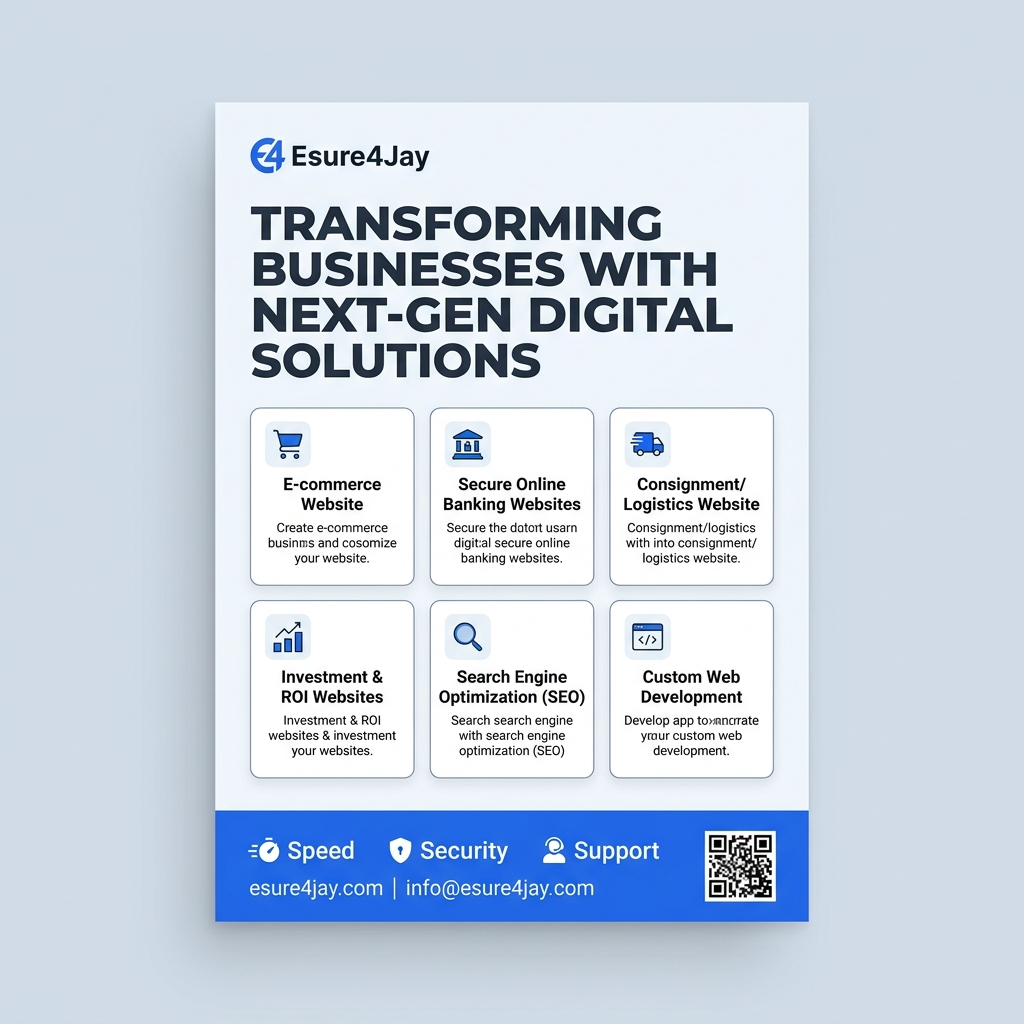
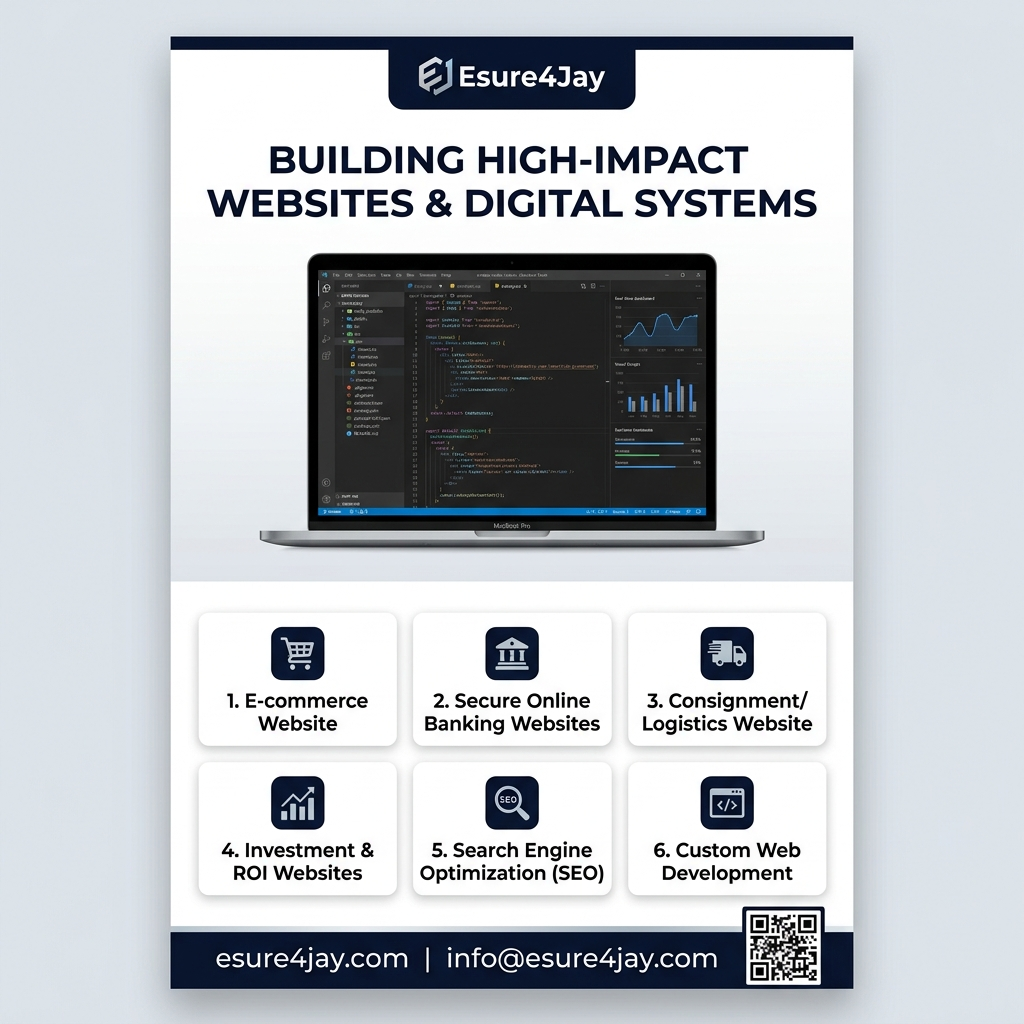
Build Hero Graphic Style marketing flyer with laptop mockup

diff --git a/public/flyer.html b/public/flyer.html
@@ -3,26 +3,26 @@
 <head>
     <meta charset="UTF-8">
     <meta name="viewport" content="width=device-width, initial-scale=1.0">
-    <title>Esure4Jay - Professional Corporate Marketing Flyer</title>
+    <title>Esure4Jay - Official Marketing Flyer</title>
     <script src="https://cdn.tailwindcss.com"></script>
     <script src="https://unpkg.com/lucide@latest"></script>
     <link rel="preconnect" href="https://fonts.googleapis.com">
     <link rel="preconnect" href="https://fonts.gstatic.com" crossorigin>
-    <link href="https://fonts.googleapis.com/css2?family=Inter:wght@300;400;500;600;700;800&family=Plus+Jakarta+Sans:wght@500;600;700;800&display=swap" rel="stylesheet">
+    <link href="https://fonts.googleapis.com/css2?family=Inter:wght@300;400;500;600;700;800&family=Plus+Jakarta+Sans:wght@600;700;800&display=swap" rel="stylesheet">
     <style>
         body {
             font-family: 'Inter', sans-serif;
-            background-color: #F1F5F9;
-            color: #0F172A;
+            background-color: #0F172A;
+            color: #F8FAFC;
         }
         .font-heading {
             font-family: 'Plus Jakarta Sans', sans-serif;
         }
         .flyer-container {
-            width: 850px;
-            min-height: 1200px;
-            background-color: #FFFFFF;
-            box-shadow: 0 20px 40px -15px rgba(15, 23, 42, 0.08);
+            width: 880px;
+            min-height: 1240px;
+            background: linear-gradient(180deg, #0F172A 0%, #090D16 100%);
+            box-shadow: 0 25px 50px -12px rgba(0, 0, 0, 0.7);
         }
         @media print {
             body { background: none; padding: 0; }
@@ -31,157 +31,170 @@
         }
     </style>
 </head>
-<body class="min-h-screen flex flex-col items-center py-10 px-4">
+<body class="min-h-screen flex flex-col items-center py-8 px-4">
 
     <!-- Action Bar -->
     <div class="no-print mb-6 flex gap-4">
-        <button onclick="window.print()" class="px-6 py-2.5 bg-blue-600 hover:bg-blue-700 text-white font-semibold rounded-lg shadow transition flex items-center gap-2">
+        <button onclick="window.print()" class="px-6 py-2.5 bg-blue-600 hover:bg-blue-500 text-white font-semibold rounded-lg shadow-lg transition flex items-center gap-2">
             <i data-lucide="printer" class="w-4 h-4"></i> Print / Save as PDF
         </button>
-        <a href="/" class="px-6 py-2.5 bg-slate-200 hover:bg-slate-300 text-slate-800 font-semibold rounded-lg transition flex items-center gap-2">
+        <a href="/" class="px-6 py-2.5 bg-slate-800 hover:bg-slate-700 text-slate-200 font-semibold rounded-lg transition flex items-center gap-2">
             <i data-lucide="arrow-left" class="w-4 h-4"></i> Back to Website
         </a>
     </div>
 
-    <!-- Printable Corporate Light Flyer -->
-    <div class="flyer-container rounded-2xl border border-slate-200 overflow-hidden p-10 flex flex-col justify-between relative">
+    <!-- Printable Hero Graphic Flyer -->
+    <div class="flyer-container rounded-2xl border border-slate-800 overflow-hidden p-8 flex flex-col justify-between relative">
         
-        <!-- Subtle Top Decorative Accent Line -->
-        <div class="absolute top-0 left-0 right-0 h-2 bg-gradient-to-r from-cyan-500 via-blue-600 to-indigo-600"></div>
-
+        <!-- Header Section -->
         <div>
-            <!-- Header Section -->
-            <div class="flex items-center justify-between border-b border-slate-100 pb-6 mb-8 mt-2">
-                <div class="flex items-center gap-4">
-                    <img src="/images/logo/logo-primary.svg" alt="Esure4Jay Logo" class="h-12 w-auto">
-                </div>
-                <div class="px-3.5 py-1 rounded-full bg-blue-50 border border-blue-100 text-blue-700 text-xs font-semibold uppercase tracking-wider">
-                    Corporate Digital Agency
+            <div class="flex items-center justify-between border-b border-slate-800/80 pb-5 mb-6">
+                <img src="/images/logo/logo-primary.svg" alt="Esure4Jay Logo" class="h-12 w-auto">
+                <div class="px-4 py-1.5 rounded-full bg-blue-500/10 border border-blue-500/30 text-cyan-400 text-xs font-semibold uppercase tracking-wider">
+                    Digital Agency & Web Solutions
                 </div>
             </div>
 
-            <!-- Hero Section -->
-            <div class="text-center max-w-2xl mx-auto mb-10">
-                <h1 class="text-4xl font-heading font-extrabold text-slate-900 tracking-tight leading-tight mb-3">
-                    Transforming Businesses With <br>
-                    <span class="text-blue-600">Next-Gen Digital Solutions</span>
-                </h1>
-                <p class="text-slate-600 text-sm leading-relaxed max-w-xl mx-auto">
-                    We engineer high-performance, secure, and conversion-driven web platforms tailored to accelerate your organization's growth.
-                </p>
+            <!-- Hero Banner with Tech Mockup Graphic -->
+            <div class="bg-gradient-to-br from-slate-900 via-slate-900 to-blue-950/40 border border-slate-800 rounded-2xl p-6 mb-8 flex items-center gap-6 shadow-xl relative overflow-hidden">
+                <!-- Background Accent Glow -->
+                <div class="absolute top-0 right-0 w-64 h-64 bg-cyan-500/10 blur-3xl rounded-full pointer-events-none"></div>
+
+                <div class="flex-1 z-10">
+                    <span class="inline-block px-3 py-1 bg-cyan-500/10 text-cyan-400 text-[11px] font-bold uppercase tracking-widest rounded-md mb-3 border border-cyan-500/20">
+                        Custom Web Development
+                    </span>
+                    <h1 class="text-3xl font-heading font-extrabold text-white leading-tight mb-3">
+                        Building High-Impact Websites & <span class="text-transparent bg-clip-text bg-gradient-to-r from-cyan-400 to-blue-500">Digital Systems</span>
+                    </h1>
+                    <p class="text-slate-300 text-xs leading-relaxed mb-4">
+                        We design and engineer fast, secure, and scalable web applications crafted to grow your brand and maximize revenue.
+                    </p>
+                    <div class="flex items-center gap-3 text-xs font-medium text-slate-300">
+                        <span class="flex items-center gap-1.5 text-cyan-400"><i data-lucide="check-circle-2" class="w-4 h-4"></i> Modern Stack</span>
+                        <span class="flex items-center gap-1.5 text-cyan-400"><i data-lucide="check-circle-2" class="w-4 h-4"></i> High Conversion</span>
+                    </div>
+                </div>
+
+                <!-- Laptop Mockup Graphic Image -->
+                <div class="w-72 shrink-0 z-10">
+                    <div class="relative group">
+                        <div class="absolute -inset-1 bg-gradient-to-r from-cyan-500 to-blue-600 rounded-xl blur opacity-30"></div>
+                        <img src="/images/tech-mockup.png" alt="Esure4Jay Laptop Mockup" class="relative rounded-xl border border-slate-700/80 shadow-2xl object-cover w-full h-44">
+                    </div>
+                </div>
             </div>
 
             <!-- Services Section Header -->
-            <div class="flex items-center gap-3 mb-6">
-                <div class="h-4 w-1 bg-blue-600 rounded-full"></div>
-                <h2 class="text-xs font-bold uppercase tracking-widest text-slate-400">Our Professional Services</h2>
-                <div class="h-px bg-slate-100 flex-1"></div>
+            <div class="flex items-center gap-3 mb-5">
+                <div class="h-4 w-1 bg-cyan-400 rounded-full"></div>
+                <h2 class="text-xs font-bold uppercase tracking-widest text-slate-400">Our Services</h2>
+                <div class="h-px bg-slate-800 flex-1"></div>
             </div>
 
-            <!-- Services Grid (6 Core Services) -->
-            <div class="grid grid-cols-2 gap-5 mb-8">
+            <!-- 6 Core Services Grid -->
+            <div class="grid grid-cols-2 gap-4 mb-6">
                 
                 <!-- Service 1 -->
-                <div class="bg-slate-50/50 border border-slate-200/80 p-5 rounded-xl hover:border-blue-300 transition shadow-sm flex gap-4">
-                    <div class="w-11 h-11 rounded-lg bg-blue-100/80 text-blue-600 flex items-center justify-center shrink-0">
-                        <i data-lucide="shopping-bag" class="w-5 h-5"></i>
+                <div class="bg-slate-900/90 border border-slate-800/90 p-4 rounded-xl flex gap-3.5 hover:border-cyan-500/40 transition">
+                    <div class="w-10 h-10 rounded-lg bg-cyan-500/10 border border-cyan-500/20 text-cyan-400 flex items-center justify-center shrink-0">
+                        <i data-lucide="shopping-cart" class="w-5 h-5"></i>
                     </div>
                     <div>
-                        <h3 class="font-heading font-bold text-slate-900 text-base mb-1">E-commerce Website</h3>
-                        <p class="text-slate-600 text-xs leading-relaxed">High-converting online stores, seamless checkouts, inventory tracking & payment gateways.</p>
+                        <h3 class="font-heading font-bold text-white text-sm mb-1">E-commerce Website</h3>
+                        <p class="text-slate-400 text-xs leading-relaxed">High-converting online stores, seamless checkouts & secure payment integrations.</p>
                     </div>
                 </div>
 
                 <!-- Service 2 -->
-                <div class="bg-slate-50/50 border border-slate-200/80 p-5 rounded-xl hover:border-blue-300 transition shadow-sm flex gap-4">
-                    <div class="w-11 h-11 rounded-lg bg-cyan-100/80 text-cyan-600 flex items-center justify-center shrink-0">
+                <div class="bg-slate-900/90 border border-slate-800/90 p-4 rounded-xl flex gap-3.5 hover:border-blue-500/40 transition">
+                    <div class="w-10 h-10 rounded-lg bg-blue-500/10 border border-blue-500/20 text-blue-400 flex items-center justify-center shrink-0">
                         <i data-lucide="shield-check" class="w-5 h-5"></i>
                     </div>
                     <div>
-                        <h3 class="font-heading font-bold text-slate-900 text-base mb-1">Secure Online Banking Websites</h3>
-                        <p class="text-slate-600 text-xs leading-relaxed">Encrypted financial portals with multi-layer security, user accounts & live transactions.</p>
+                        <h3 class="font-heading font-bold text-white text-sm mb-1">Secure Online Banking Websites</h3>
+                        <p class="text-slate-400 text-xs leading-relaxed">Encrypted banking portals with multi-layer security, user accounts & live logs.</p>
                     </div>
                 </div>
 
                 <!-- Service 3 -->
-                <div class="bg-slate-50/50 border border-slate-200/80 p-5 rounded-xl hover:border-blue-300 transition shadow-sm flex gap-4">
-                    <div class="w-11 h-11 rounded-lg bg-indigo-100/80 text-indigo-600 flex items-center justify-center shrink-0">
+                <div class="bg-slate-900/90 border border-slate-800/90 p-4 rounded-xl flex gap-3.5 hover:border-indigo-500/40 transition">
+                    <div class="w-10 h-10 rounded-lg bg-indigo-500/10 border border-indigo-500/20 text-indigo-400 flex items-center justify-center shrink-0">
                         <i data-lucide="truck" class="w-5 h-5"></i>
                     </div>
                     <div>
-                        <h3 class="font-heading font-bold text-slate-900 text-base mb-1">Consignment/Logistics Website</h3>
-                        <p class="text-slate-600 text-xs leading-relaxed">Real-time package consignment tracking, fleet management, and automated status updates.</p>
+                        <h3 class="font-heading font-bold text-white text-sm mb-1">Consignment/Logistics Website</h3>
+                        <p class="text-slate-400 text-xs leading-relaxed">Real-time consignment tracking, shipment management & fleet logs.</p>
                     </div>
                 </div>
 
                 <!-- Service 4 -->
-                <div class="bg-slate-50/50 border border-slate-200/80 p-5 rounded-xl hover:border-blue-300 transition shadow-sm flex gap-4">
-                    <div class="w-11 h-11 rounded-lg bg-sky-100/80 text-sky-600 flex items-center justify-center shrink-0">
+                <div class="bg-slate-900/90 border border-slate-800/90 p-4 rounded-xl flex gap-3.5 hover:border-sky-500/40 transition">
+                    <div class="w-10 h-10 rounded-lg bg-sky-500/10 border border-sky-500/20 text-sky-400 flex items-center justify-center shrink-0">
                         <i data-lucide="trending-up" class="w-5 h-5"></i>
                     </div>
                     <div>
-                        <h3 class="font-heading font-bold text-slate-900 text-base mb-1">Investment & ROI Websites</h3>
-                        <p class="text-slate-600 text-xs leading-relaxed">Modern portfolio management dashboards, interactive financial metrics & investor portals.</p>
+                        <h3 class="font-heading font-bold text-white text-sm mb-1">Investment & ROI Websites</h3>
+                        <p class="text-slate-400 text-xs leading-relaxed">Portfolio management dashboards, interactive financial metrics & investor portals.</p>
                     </div>
                 </div>
 
                 <!-- Service 5 -->
-                <div class="bg-slate-50/50 border border-slate-200/80 p-5 rounded-xl hover:border-blue-300 transition shadow-sm flex gap-4">
-                    <div class="w-11 h-11 rounded-lg bg-emerald-100/80 text-emerald-600 flex items-center justify-center shrink-0">
-                        <i data-lucide="search-check" class="w-5 h-5"></i>
+                <div class="bg-slate-900/90 border border-slate-800/90 p-4 rounded-xl flex gap-3.5 hover:border-emerald-500/40 transition">
+                    <div class="w-10 h-10 rounded-lg bg-emerald-500/10 border border-emerald-500/20 text-emerald-400 flex items-center justify-center shrink-0">
+                        <i data-lucide="search" class="w-5 h-5"></i>
                     </div>
                     <div>
-                        <h3 class="font-heading font-bold text-slate-900 text-base mb-1">Search Engine Optimization (SEO)</h3>
-                        <p class="text-slate-600 text-xs leading-relaxed">Data-backed search optimization to rank #1 on search engines and attract organic leads.</p>
+                        <h3 class="font-heading font-bold text-white text-sm mb-1">Search Engine Optimization (SEO)</h3>
+                        <p class="text-slate-400 text-xs leading-relaxed">Data-backed search optimization to rank #1 on Google and boost organic leads.</p>
                     </div>
                 </div>
 
                 <!-- Service 6 -->
-                <div class="bg-slate-50/50 border border-slate-200/80 p-5 rounded-xl hover:border-blue-300 transition shadow-sm flex gap-4">
-                    <div class="w-11 h-11 rounded-lg bg-purple-100/80 text-purple-600 flex items-center justify-center shrink-0">
-                        <i data-lucide="code-2" class="w-5 h-5"></i>
+                <div class="bg-slate-900/90 border border-slate-800/90 p-4 rounded-xl flex gap-3.5 hover:border-purple-500/40 transition">
+                    <div class="w-10 h-10 rounded-lg bg-purple-500/10 border border-purple-500/20 text-purple-400 flex items-center justify-center shrink-0">
+                        <i data-lucide="code" class="w-5 h-5"></i>
                     </div>
                     <div>
-                        <h3 class="font-heading font-bold text-slate-900 text-base mb-1">Custom Web Development</h3>
-                        <p class="text-slate-600 text-xs leading-relaxed">Bespoke web applications built from scratch with modern frameworks for maximum speed.</p>
+                        <h3 class="font-heading font-bold text-white text-sm mb-1">Custom Web Development</h3>
+                        <p class="text-slate-400 text-xs leading-relaxed">Tailor-made web applications built from scratch with modern frameworks.</p>
                     </div>
                 </div>
 
             </div>
 
-            <!-- Value Highlights Banner -->
-            <div class="bg-blue-600 text-white rounded-xl p-5 mb-8 grid grid-cols-3 gap-4 text-center">
-                <div class="flex flex-col items-center">
-                    <i data-lucide="zap" class="w-5 h-5 mb-1 text-cyan-300"></i>
-                    <span class="font-bold text-sm">Ultra Fast Performance</span>
-                    <span class="text-[11px] text-blue-100 mt-0.5">Optimized for Speed</span>
+            <!-- Value Highlights Bar -->
+            <div class="bg-slate-900/80 border border-slate-800 rounded-xl p-4 mb-6 flex justify-around text-center">
+                <div class="flex items-center gap-2 text-xs">
+                    <i data-lucide="zap" class="w-4 h-4 text-cyan-400"></i>
+                    <span class="font-bold text-white">Ultra Fast Speed</span>
                 </div>
-                <div class="flex flex-col items-center border-x border-blue-500/60 px-2">
-                    <i data-lucide="lock" class="w-5 h-5 mb-1 text-cyan-300"></i>
-                    <span class="font-bold text-sm">Bank-Grade Security</span>
-                    <span class="text-[11px] text-blue-100 mt-0.5">Encrypted Architecture</span>
+                <div class="w-px bg-slate-800"></div>
+                <div class="flex items-center gap-2 text-xs">
+                    <i data-lucide="lock" class="w-4 h-4 text-blue-400"></i>
+                    <span class="font-bold text-white">Bank-Grade Security</span>
                 </div>
-                <div class="flex flex-col items-center">
-                    <i data-lucide="headphones" class="w-5 h-5 mb-1 text-cyan-300"></i>
-                    <span class="font-bold text-sm">24/7 Ongoing Support</span>
-                    <span class="text-[11px] text-blue-100 mt-0.5">Dedicated Maintenance</span>
+                <div class="w-px bg-slate-800"></div>
+                <div class="flex items-center gap-2 text-xs">
+                    <i data-lucide="headphones" class="w-4 h-4 text-indigo-400"></i>
+                    <span class="font-bold text-white">24/7 Dedicated Support</span>
                 </div>
             </div>
         </div>
 
         <!-- Footer / Contact Card -->
-        <div class="bg-slate-900 text-white rounded-xl p-6 flex items-center justify-between">
+        <div class="bg-slate-950 border border-slate-800 rounded-xl p-5 flex items-center justify-between">
             <div>
-                <span class="text-xs font-semibold text-blue-400 uppercase tracking-widest block mb-1">Ready to build your web project?</span>
-                <h3 class="text-xl font-heading font-bold mb-2">Get Started Today</h3>
+                <span class="text-xs font-semibold text-cyan-400 uppercase tracking-widest block mb-1">Ready to build your next web project?</span>
+                <h3 class="text-lg font-heading font-bold text-white mb-2">Get In Touch With Us</h3>
                 <div class="flex items-center gap-6 text-xs text-slate-300">
-                    <span class="flex items-center gap-2"><i data-lucide="globe" class="w-4 h-4 text-blue-400"></i> esure4jay.com</span>
-                    <span class="flex items-center gap-2"><i data-lucide="mail" class="w-4 h-4 text-cyan-400"></i> info@esure4jay.com</span>
+                    <span class="flex items-center gap-1.5"><i data-lucide="globe" class="w-4 h-4 text-cyan-400"></i> esure4jay.com</span>
+                    <span class="flex items-center gap-1.5"><i data-lucide="mail" class="w-4 h-4 text-blue-400"></i> info@esure4jay.com</span>
                 </div>
             </div>
 
-            <div class="text-right flex items-center gap-4">
-                <div class="p-1.5 bg-white rounded-lg">
+            <div class="text-right flex items-center gap-3">
+                <div class="p-1.5 bg-white rounded-lg shadow-md">
                     <img src="https://api.qrserver.com/v1/create-qr-code/?size=90x90&data=https://esure4jay.com" alt="QR Code" class="w-16 h-16">
                 </div>
             </div>
